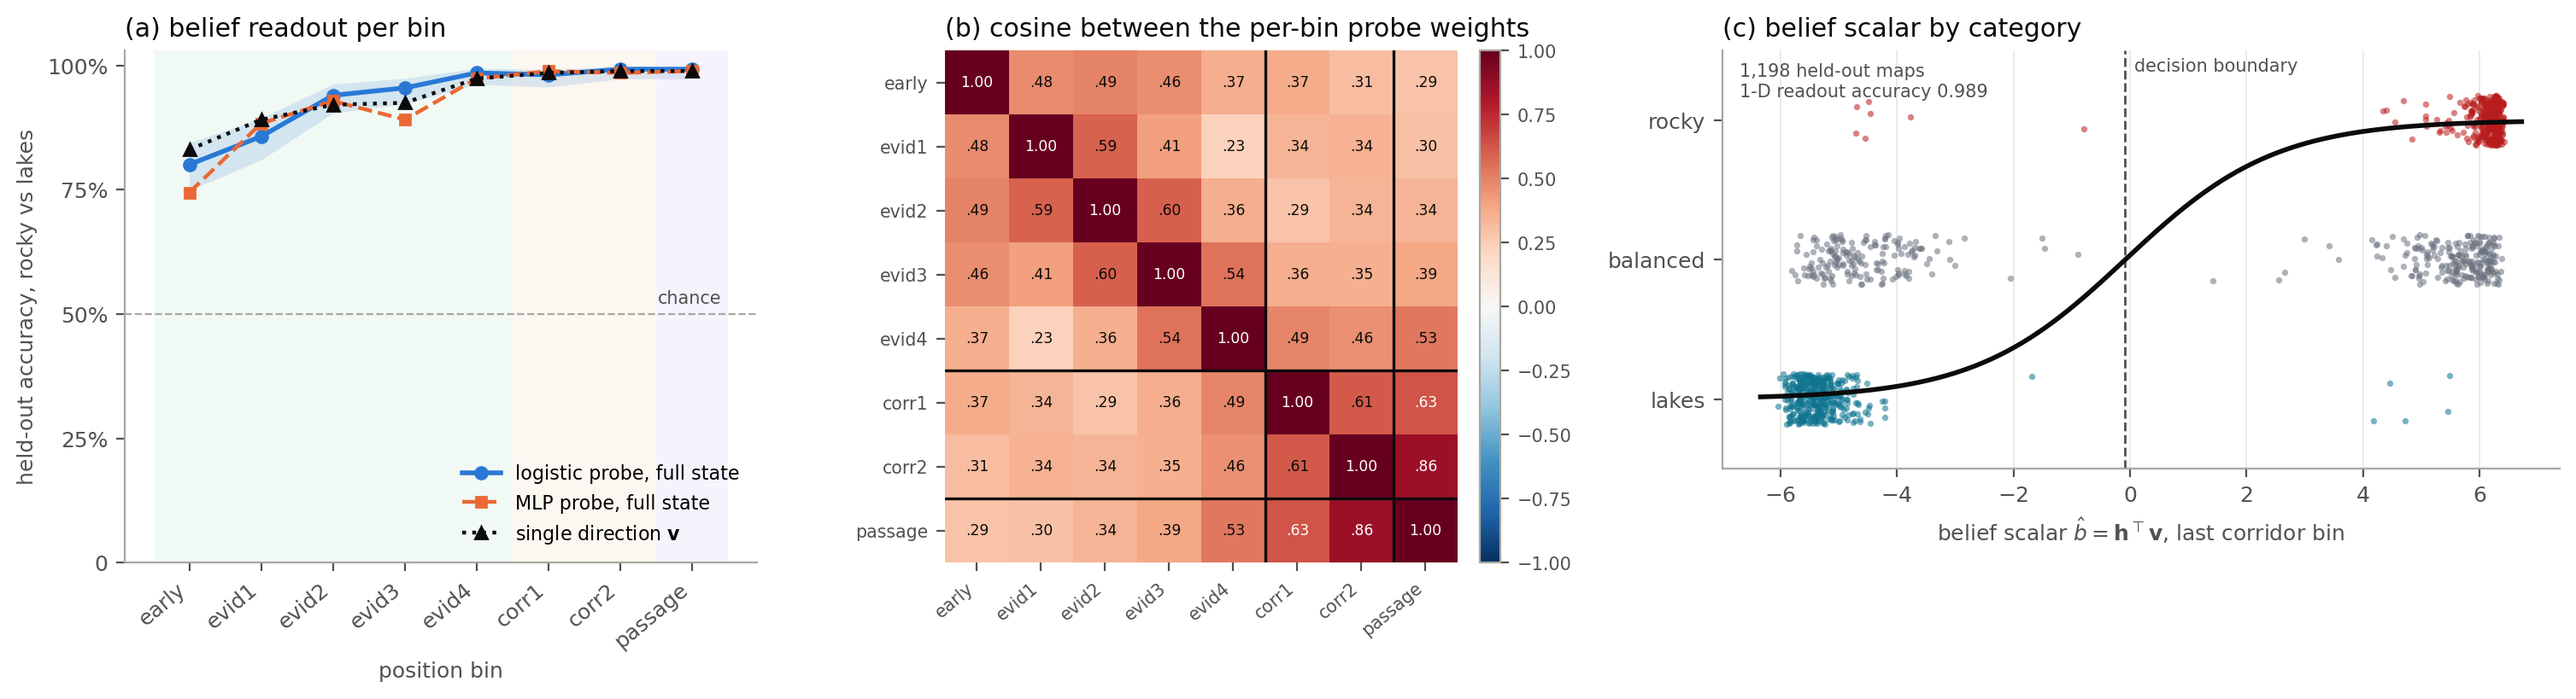
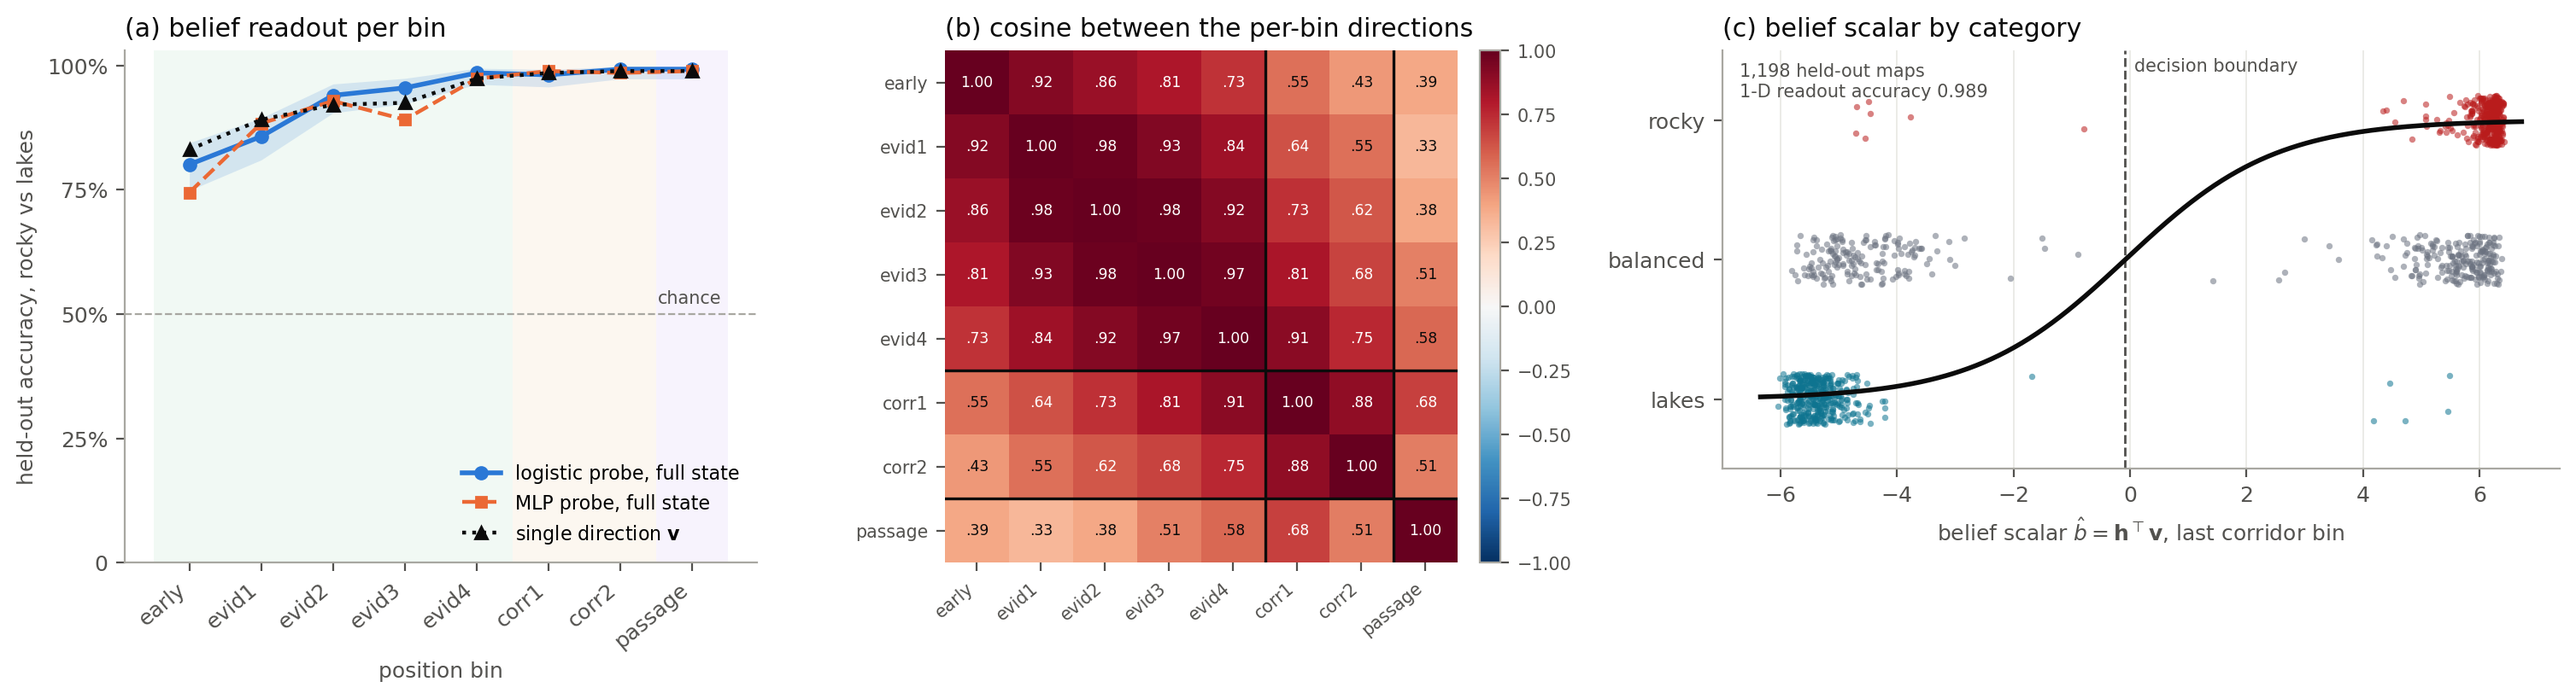
iab2026: Fig. 3b back to the difference-of-means directions
Claude-Session: https://claude.ai/code/session_01J5XN9pUg9gxBCqVt8K5kAW

Changed region(s): [[0.343, 0.0305, 0.5924, 0.8242]]

diff --git a/paper/iab2026/paper/sections/results.tex b/paper/iab2026/paper/sections/results.tex
@@ -5,8 +5,8 @@
 Figure~\ref{fig:results_belief}a shows that accuracy rises with the evidence seen, from
 $83\%$ in the first bin to $99\%$ from the corridor onwards: the decoded belief matches the real map category at every stage of the map. It is surprising that the non-linear MLP probe generalizes \emph{worse} than a single 1D logistic probe: it trails the scalar by nine points in the first bin and never leads it by more than one. All the information relevant for the belief is present along a single direction in activation space. This is the picture drawn by the linear representation hypothesis \citep{park2024linear,elhage2022toy}: a concept learned through minimizing a general loss function is represented as a single direction.
 
-This direction is not fixed across the stages of an episode. Figure~\ref{fig:results_belief}b compares the weight vectors of the logistic probes fitted in each bin:
-neighbouring bins agree, with cosines of $0.5$--$0.9$ and the highest, $0.86$, between the last corridor bin and the passage, while bins far apart in the episode differ, down to $0.29$ between the first bin and the passage: it looks like the code drifts, perhaps as a rotation, as evidence accumulates over an episode. We therefore choose \textit{corr2} to fit the direction $\mathbf{v}$ where the belief is complete and the flags are not yet in view. Figure~\ref{fig:results_belief}c shows the logistic regression fit on $b_t=\mathbf{h}_t^{\top}\mathbf{v}$
+This direction is not fixed across the stages of an episode. Figure~\ref{fig:results_belief}b shows that
+neighbouring bins agree, with a cosine of $0.88$ between the two corridor bins, while the earliest and the last differ most with a similarity of $0.33$: it looks like the code drifts, perhaps as a rotation, as evidence accumulates over an episode. We therefore choose \textit{corr2} to fit the direction $\mathbf{v}$ where the belief is complete and the flags are not yet in view. Figure~\ref{fig:results_belief}c shows the logistic regression fit on $b_t=\mathbf{h}_t^{\top}\mathbf{v}$
 achieving $\mathbf{98.9\%}$ accuracy on the $266$ lakes and rocky maps not used for the fit. $57\%$ of balanced maps,
 never used to fit $\mathbf{v}$, are believed to be rocky while the remaining $43\%$ are more similar to lakes.
 
@@ -17,7 +17,7 @@ never used to fit $\mathbf{v}$, are believed to be rocky while the remaining $43
 bin: (i) a logistic-regression probe and (ii) an MLP probe on the full $128$-d state,
 and (iii) a logistic regression on the single scalar $b_t=\mathbf{h}_t^{\top}\mathbf{v}$,
 where $\mathbf{v}$ is the difference-of-means direction. The scalar matches the full-state probes everywhere, and all three reach
-$0.98$ or more from the corridor on. (b) Cosine between the weight vectors of the logistic probes fitted on the raw states of different bins.
+$0.98$ or more from the corridor on. (b) Cosine between the directions $\mathbf{v}$ fitted in different bins.
 (c) States projected on the belief direction per map category in bin \textit{corr2}; the curve is the logistic regression on this scalar, with $98.9\%$ held-out accuracy. $57\%$ of balanced maps are classified as rocky.}
 \label{fig:results_belief}
 \end{figure}

diff --git a/scripts/figures/paper/iab_appendix_figs.py b/scripts/figures/paper/iab_appendix_figs.py
@@ -257,7 +257,7 @@ def fig_belief():
         w = LogisticRegression(max_iter=5000, C=1.0).fit(M[m], y).coef_[0]; Wp.append(w / np.linalg.norm(w))
     C_dm = np.stack(V) @ np.stack(V).T
     C_probe = np.stack(Wp) @ np.stack(Wp).T
-    Cm = C_probe
+    Cm = C_dm            # panel (b) shows the difference-of-means directions; the probe matrix is kept in belief_stats.json
     with plt.rc_context(RC):
         # explicit axes in inches so every panel keeps its natural proportions
         W, Hf = 15.2, 4.5
@@ -295,7 +295,7 @@ def fig_belief():
         ax.set_xticklabels(LABELS, rotation=40, ha="right", fontsize=7.4); ax.set_yticklabels(LABELS, fontsize=7.4)
         for sp in ax.spines.values():
             sp.set_visible(False)
-        ax.set_title("(b) cosine between the per-bin probe weights", loc="left", color=INK)
+        ax.set_title("(b) cosine between the per-bin directions", loc="left", color=INK)
         cb = fig.colorbar(im, cax=cax); cb.ax.tick_params(labelsize=7.5)
         st = _sigmoid_panel(axc, title_prefix="(c) ")
         save(fig, "fig_results_belief.png")
